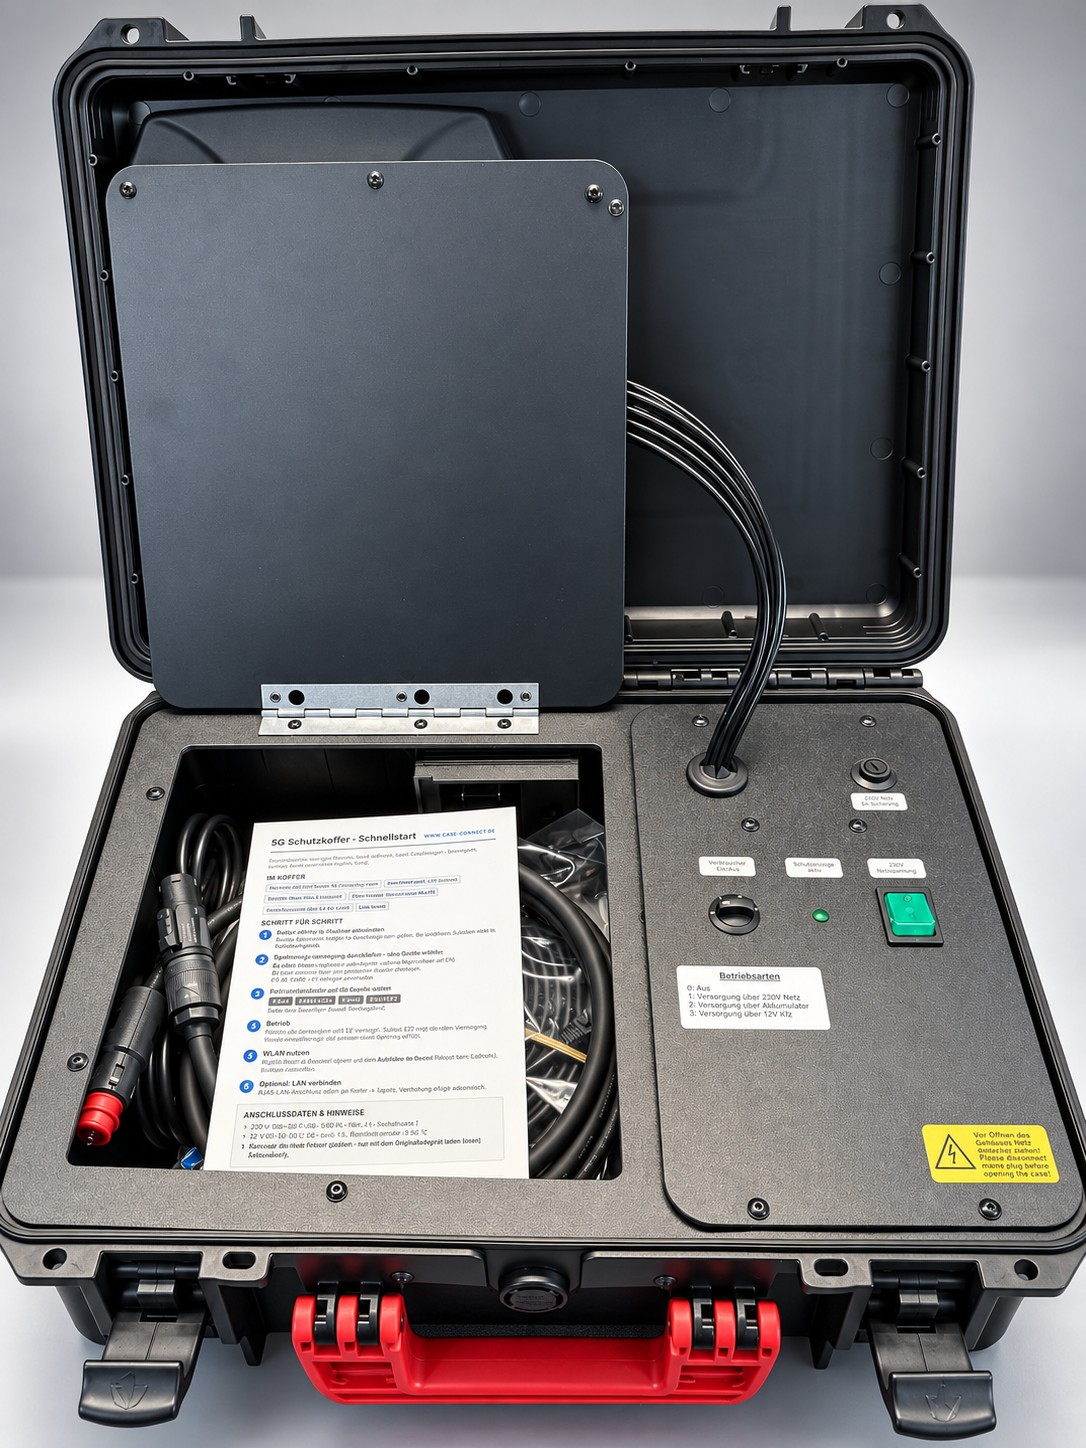
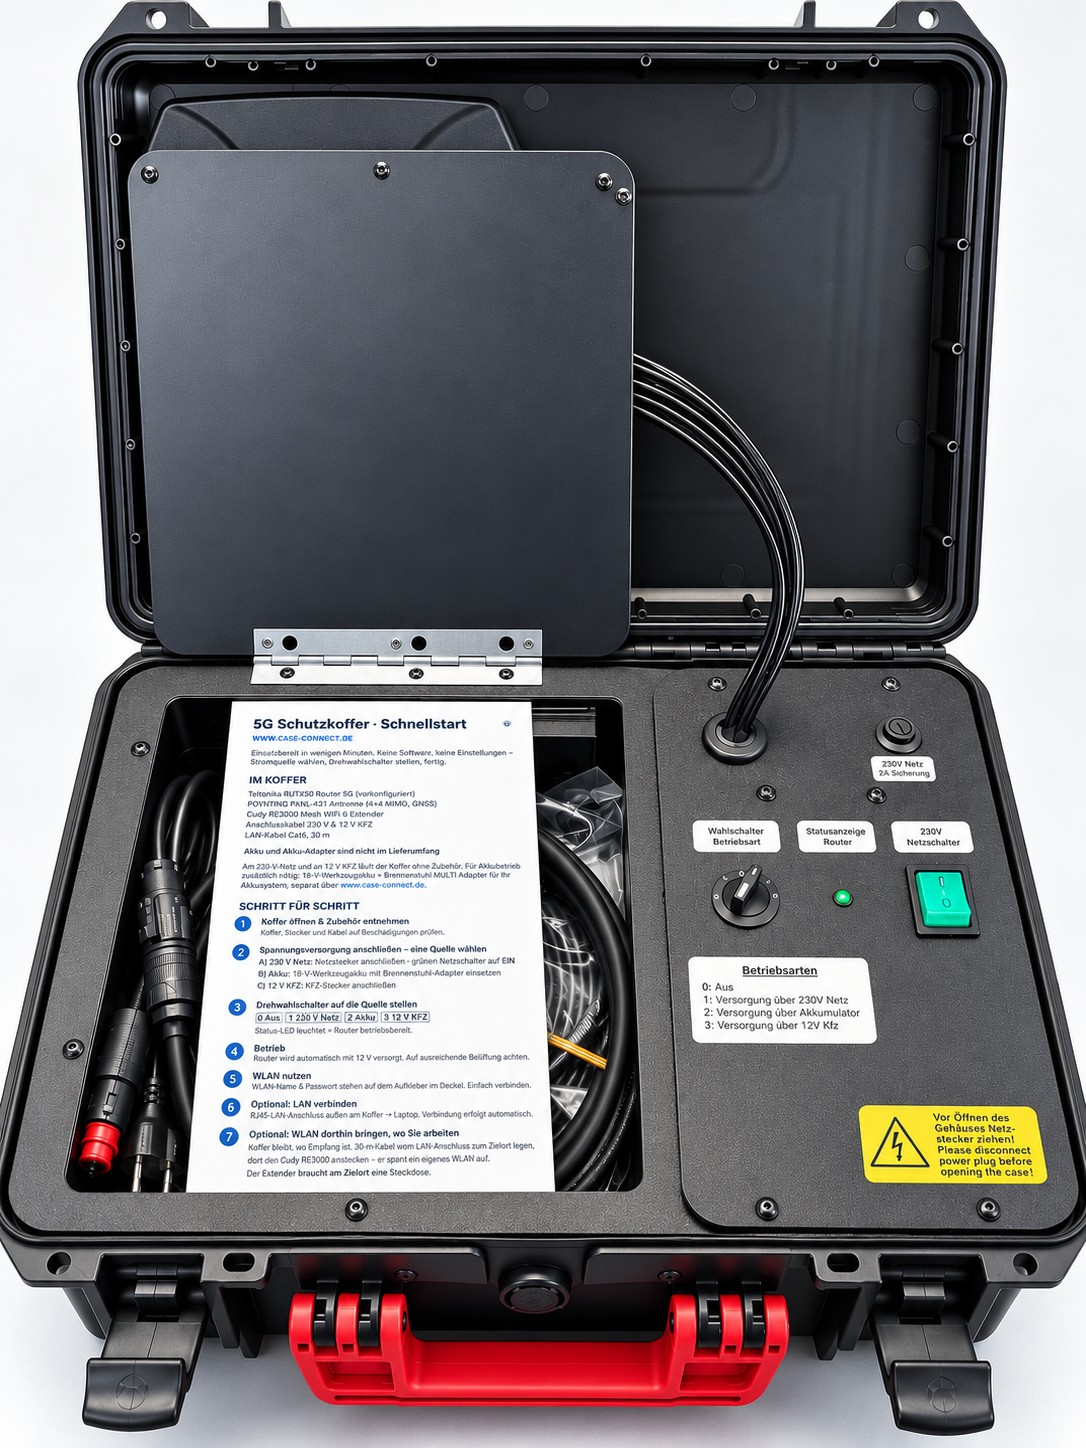
Korrigierter Bildersatz: saubere Beschriftungen auf allen Motiven
Drei Bilder neu: geoeffneter Koffer, Lieferumfang mit Schnellstart-Blatt,
Staufach mit Akku. Die Bedienfeld-Label stimmen jetzt ueberall ueberein:
Wahlschalter Betriebsart, Statusanzeige Router, 230V Netzschalter,
230V Netz 2A Sicherung. Die frueheren Fantasiebegriffe "Ladegeraet"
und "USV" sind weg - beides gibt es am Koffer nicht.

Technikdaten an die neuen Label angeglichen. Sicherung mit 2 A benannt,
das deckt sich mit der Schnellstart-Anleitung.

bedienfeld.jpg ist jetzt ein Ausschnitt auf die Schalterreihe, damit die
Beschriftungen auch klein lesbar bleiben.

diff --git a/components/sections/TechSpecs.tsx b/components/sections/TechSpecs.tsx
@@ -46,10 +46,10 @@ const detailCategories: DetailCategory[] = [
   {
     category: 'Bedienfeld',
     rows: [
-      { label: 'Verbraucher Ein/Aus', value: 'Drehwahlschalter für die Betriebsart: 0 Aus, 1 Versorgung über 230 V Netz, 2 Versorgung über Akkumulator, 3 Versorgung über 12 V Kfz' },
-      { label: 'Statusanzeige Betrieb', value: 'Grüne LED, leuchtet wenn der Router versorgt wird' },
+      { label: 'Wahlschalter Betriebsart', value: 'Drehwahlschalter: 0 Aus, 1 Versorgung über 230 V Netz, 2 Versorgung über Akkumulator, 3 Versorgung über 12 V Kfz' },
+      { label: 'Statusanzeige Router', value: 'Grüne LED, leuchtet wenn der Router versorgt wird' },
       { label: '230 V Netzschalter', value: 'Grüner Wippschalter für das Netzteil, bei Netzbetrieb zusätzlich einschalten' },
-      { label: 'Absicherung', value: 'Sicherungen je Stromquelle' },
+      { label: '230 V Netz, 2 A Sicherung', value: 'Schraubbarer Sicherungshalter am Bedienfeld, Stecksicherungen für Akku und Kfz im Technikfach' },
     ],
   },
   {
